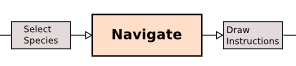
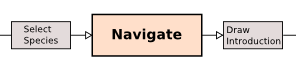
Instruction images and more headers: "Draw Instructions" -> "Draw Introduction"

Changed region(s): [[0.7905, 0.5455, 0.973, 0.697]]

diff --git a/media2/js/widgets/DrawPanel.js b/media2/js/widgets/DrawPanel.js
@@ -75,37 +75,37 @@ gwst.widgets.DrawPanel = Ext.extend(gwst.widgets.WestPanel, {
                     a. Click once on the map to create the first point.\
                     </p>',
             },{
-                html: '<p><img src="/site-media/images/draw_1.png" style="width: 50px; height: 50px"></p>',
+                html: '<img src="/site-media/images/draw_1.png">',
             },{
                 html: '<p> \
                     b. Move mouse and click to create a second point.\
                     </p>',
             },{
-                html: '<p><img src="/site-media/images/tux.png" style="width: 50px; height: 50px"></p>',
+                html: '<img src="/site-media/images/draw_2.png">',
             },{
                 html: '<p>\
                     c. Continue tracing being as accurate as you can.\
                     </p>',
             }, {
-                html: '<p><img src="/site-media/images/tux.png" style="width: 50px; height: 50px"></p>',
+                html: '<img src="/site-media/images/draw_3.png">',
             },{
                 html: '<p> \
                     d. Double-click the last point to complete your '+this.shape_name+'.\
                     </p>',
             },{
-                html: '<p><img src="/site-media/images/tux.png" style="width: 50px; height: 50px"></p>',
+                html: '<img src="/site-media/images/draw_4.png">',
             },{
                 html: '<p>\
                     e. If you make a mistake, click the \'Cancel\' button\
                     </p>',
             },{
-                html: '<p><img src="/site-media/images/tux.png" style="width: 50px; height: 50px"></p>',
+                html: '<img src="/site-media/images/draw_5.png">',
             },{
                 html: '<p>\
                     f. You can control the map while you\'re drawing.\
                     </p>',
             },{
-                html: '<p><img src="/site-media/images/tux.png" style="width: 50px; height: 50px"></p>',
+                html: '<img src="/site-media/images/draw_6.png">',
             }]
         });
         
